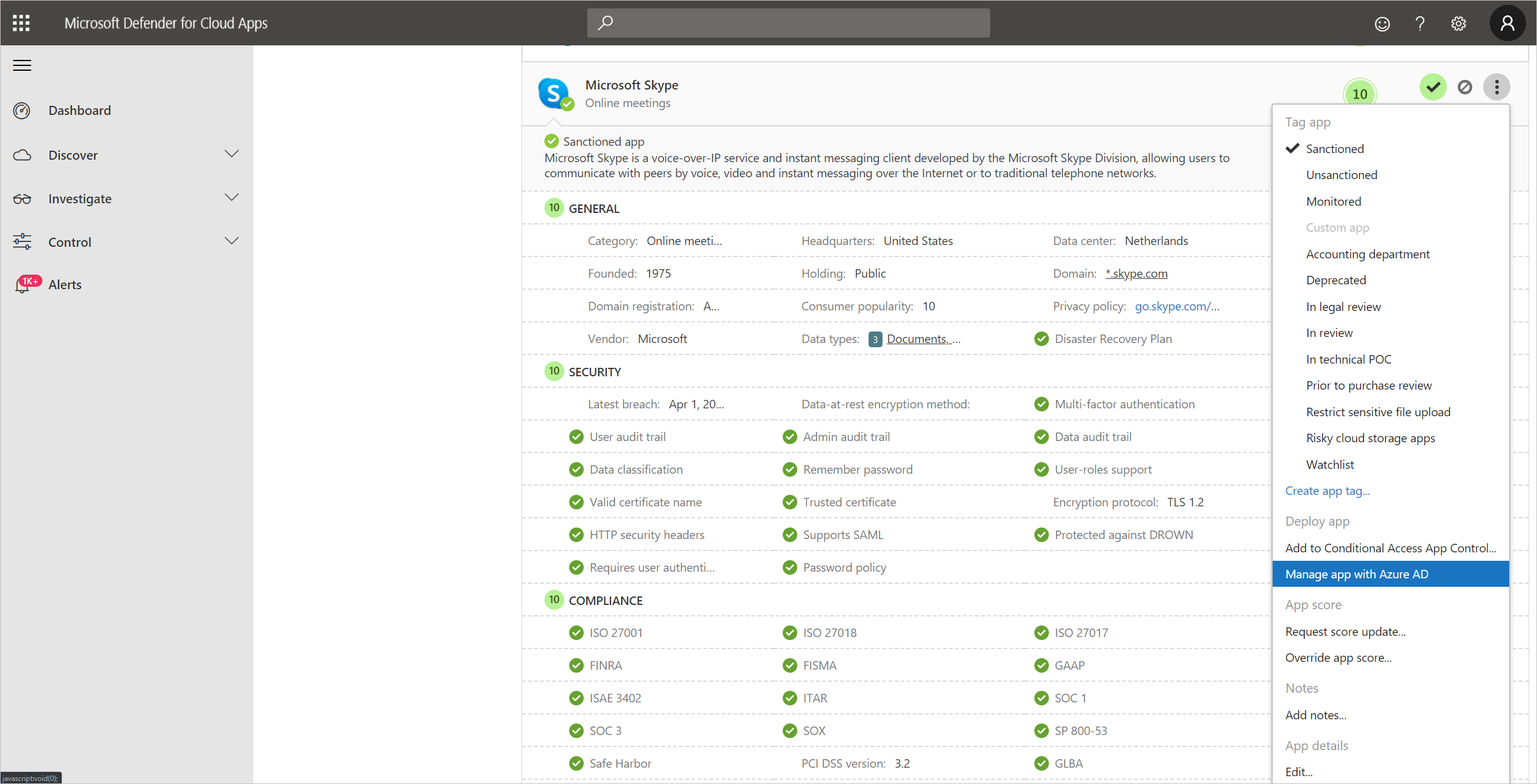
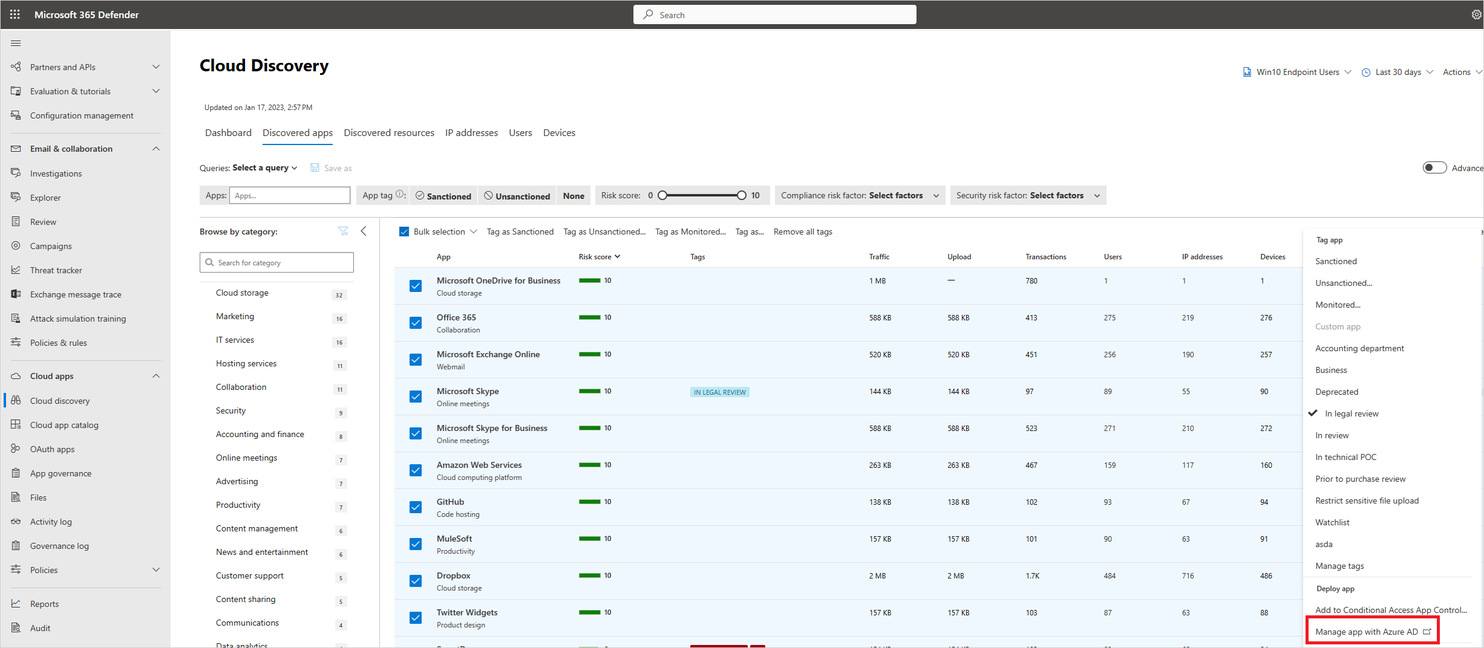
update jan 29

diff --git a/CloudAppSecurityDocs/tutorial-dlp.md b/CloudAppSecurityDocs/tutorial-dlp.md
@@ -34,16 +34,16 @@ Our approach to information protection can be split into the following phases th
     - **Use an app connector**: Our app connectors use the APIs supplied by app providers. They provide greater visibility into and control over the apps used in your organization. Scans are performed periodically (every 12 hours) and in real time (triggered each time a change is detected). For more information and instructions on how to add apps, see [Connecting apps](enable-instant-visibility-protection-and-governance-actions-for-your-apps.md).
     - **Use Conditional Access App Control**: Our Conditional Access App Control solution uses a reverse proxy architecture that is uniquely integrated with Azure Active Directory (AD) Conditional Access. Once configured in Azure AD, users will be routed to Defender for Cloud Apps where access and session policies are enforced to protect the data apps attempt to use. This connection method allows you to apply controls to [any app](proxy-deployment-any-app.md). For more information, see [Protect apps with Defender for Cloud Apps Conditional Access App Control](proxy-intro-aad.md).
 
-1. **Investigate**: After you connect an app to Defender for Cloud Apps using its API connector, Defender for Cloud Apps scans all the files it uses. You can then go to the file investigation page (**Investigate** > **Files**) to get an overview of the files shared by your cloud apps, their accessibility, and their status. For more information, see [Investigate files](file-filters.md).
+1. **Investigate**: After you connect an app to Defender for Cloud Apps using its API connector, Defender for Cloud Apps scans all the files it uses. In the Microsoft 365 Defender portal, under **Cloud Apps**, go to **Files** to get an overview of the files shared by your cloud apps, their accessibility, and their status. For more information, see [Investigate files](file-filters.md).
 
 ### Phase 2: Classify sensitive information
 
-1. **Define which information is sensitive**: Before looking for sensitive information in your files, you first need to define what counts as sensitive for your organization. As part of our [data classification service](dcs-inspection.md), we offer over 100 out-of-the-box sensitive information types, or you can [create your own](/microsoft-365/compliance/create-a-custom-sensitive-information-type) to suit to your company policy. **Defender for Cloud Apps is natively integrated with Microsoft Purview Information Protection** and the same sensitive types and labels are available throughout both services. So when you want to define sensitive information, head over to the Microsoft Purview Information Protection portal to create them, and once defined they will be available in Defender for Cloud Apps. You can also use advanced classifications types such as fingerprint or Exact Data Match (EDM).
+1. **Define which information is sensitive**: Before looking for sensitive information in your files, you first need to define what counts as sensitive for your organization. As part of our [data classification service](dcs-inspection.md), we offer over 100 out-of-the-box sensitive information types, or you can [create your own](/microsoft-365/compliance/create-a-custom-sensitive-information-type) to suit to your company policy. **Defender for Cloud Apps is natively integrated with Microsoft Purview Information Protection** and the same sensitive types and labels are available throughout both services. So when you want to define sensitive information, head over to the Microsoft Purview Information Protection portal to create them, and once defined they'll be available in Defender for Cloud Apps. You can also use advanced classifications types such as fingerprint or Exact Data Match (EDM).
 
     For those of you that have already done the hard work of identifying sensitive information and applying the appropriate sensitivity labels, you can use those labels in your policies without having to scan the contents again.
-1. **Enable Microsoft Purview Information Protection integration**
-    1. In Defender for Cloud Apps, under the settings cog, select the **Settings** page under the **System** heading.
-    1. Under **Microsoft Purview Information Protection**, select **Automatically scan new files for sensitivity labels from Microsoft Purview Information Protection**.
+1. **Enable Microsoft Information Protection integration**
+    1. In the Microsoft 365 Defender portal, select **Settings**. Then choose **Cloud Apps**.
+    1. Under **Information Protection**,  go to **Microsoft Information Protection**. Select **Automatically scan new files for Microsoft Information Protection sensitivity labels and content inspection warnings**.
 
     For more information, see [Microsoft Purview Information Protection integration](azip-integration.md).
 1. **Create policies to identify sensitive information in files**: Once you know the kinds of information you want to protect, it's time to create policies to detect them. Start by creating the following policies:
@@ -51,14 +51,15 @@ Our approach to information protection can be split into the following phases th
     **File policy**  
     Use this type of policy to scan the content of files stored in your API connected cloud apps in near real-time and data at rest. Files are scanned using one of our supported inspection methods including **Microsoft Purview Information Protection encrypted content** thanks to its **native integration** with Defender for Cloud Apps.
 
-    1. Go to **Control** > **Policies**, select **Create Policy**, and then select **File policy**.
+    1. In the Microsoft 365 Defender portal, under **Cloud Apps**, select **Policies** -> **Policy management**.
+    1. Select **Create Policy**, and then select **File policy**.
     1. Under **Inspection method**, choose and configure one of the following classification services:
 
         - **[Data Classification Services](dcs-inspection.md)**: Uses classification decisions you've made across Office 365, Microsoft Purview Information Protection, and Defender for Cloud Apps to provide a unified labeling experience. This is the preferred content inspection method as it provides a consistent and unified experience across Microsoft products.
         - **[Built-in DLP](content-inspection-built-in.md)**: Inspects files for sensitive information using our built-in DLP content inspection engine.
         - **[External DLP integration](icap-stunnel.md)**: For enterprises wishing to use their own third-party DLP solutions, Defender for Cloud Apps file policies can securely direct files for inspection to your external DLP solution via an ICAP server.
 
-    1. For highly sensitive files, select **Create an alert** and choose the alerts you require, so that you are informed when there are files with unprotected sensitive information in your organization.
+    1. For highly sensitive files, select **Create an alert for each matching file** and choose the alerts you require, so that you're informed when there are files with unprotected sensitive information in your organization.
     1. Select **Create**.
 
     **Session policy**  
@@ -68,21 +69,22 @@ Our approach to information protection can be split into the following phases th
     - **Protect files on download**: Require documents to be labeled and protected with Microsoft Purview Information Protection. This action ensures the document is protected and user access is restricted in a potentially risky session.
     - **Prevent the upload of unlabeled files**: Require a file to have the right label and protection before a sensitive file is uploaded, distributed, and used by others. With this action, you can ensure that unlabeled files with sensitive content are blocked from being uploaded until the user classifies the content.
 
-    1. Go to **Control** > **Policies**, select **Create Policy**, and then select **Session policy**.
+    1. In the Microsoft 365 Defender portal, under **Cloud Apps**, select **Policies** -> **Policy management**.
+    1. Select **Create Policy**, and then select **Session policy**.
     1. Under **Session control type**, choose one of the options with DLP.
     1. Under **Inspection method**, choose and configure one of the following classification services:
 
         - **[Data Classification Services](dcs-inspection.md)**: Uses classification decisions you've made across Office 365, Microsoft Purview Information Protection, and Defender for Cloud Apps to provide a unified labeling experience. This is the preferred content inspection method as it provides a consistent and unified experience across Microsoft products.
         - **[Built-in DLP](content-inspection-built-in.md)**: Inspects files for sensitive information using our built-in DLP content inspection engine.
 
-    1. For highly sensitive files, select **Create an alert** and choose the alerts you require, so that you are informed when there are files with unprotected sensitive information in your organization.
+    1. For highly sensitive files, select **Create an alert** and choose the alerts you require, so that you're informed when there are files with unprotected sensitive information in your organization.
     1. Select **Create**.
 
 You should create as many policies as required to detect sensitive data in compliance with your company policy.
 
 ### Phase 3: Protect your data
 
-So now you can detect files with sensitive information, but what you really want to do is protect that information from potential threats. Once you are aware of an incident, you can manually remediate the situation or you can use one of the automatic governance actions provided by Defender for Cloud Apps for securing your files. Actions include, but are not limited to, Microsoft Purview Information Protection native controls, API provided actions, and real-time monitoring. The kind of governance you can apply depends on the type of policy you are configuring, as follows:
+So now you can detect files with sensitive information, but what you really want to do is protect that information from potential threats. Once you're aware of an incident, you can manually remediate the situation or you can use one of the automatic governance actions provided by Defender for Cloud Apps for securing your files. Actions include, but aren't limited to, Microsoft Purview Information Protection native controls, API provided actions, and real-time monitoring. The kind of governance you can apply depends on the type of policy you're configuring, as follows:
 
 1. **[File policy governance](governance-actions.md#file-governance-actions) actions**: Uses the cloud app provider's API and our native integrations to secure files, including:
     - Trigger alerts and send email notifications about the incident
@@ -102,7 +104,7 @@ So now you can detect files with sensitive information, but what you really want
 
 Your policies are all in place to inspect and protect your data. Now, you'll want to [check your dashboard](daily-activities-to-protect-your-cloud-environment.md#check-the-dashboard) daily to see what new alerts have been triggered. It's a good place to keep an eye on the health of your cloud environment. Your dashboard helps you get a sense of what's happening and, if necessary, launch an [investigation](investigate.md).
 
-One of the most effective ways of monitoring sensitive file incidents, is to head over to the **Policies** page, and review the matches for policies you have configured. Additionally, if you configured alerts, you should also consider regularly monitoring file alerts by heading over to the **Alerts** page, specifying the category as **DLP**, and reviewing which file-related policies are being triggered. Reviewing these incidents can help you fine-tune your policies to focus on threats that are of interest to your organization.
+One of the most effective ways of monitoring sensitive file incidents, is to head over to the **Policies** page, and review the matches for policies you've configured. Additionally, if you configured alerts, you should also consider regularly monitoring file alerts by heading over to the **Alerts** page, specifying the category as **DLP**, and reviewing which file-related policies are being triggered. Reviewing these incidents can help you fine-tune your policies to focus on threats that are of interest to your organization.
 
 In conclusion, managing sensitive information in this way ensures that data saved to the cloud has maximal protection from malicious exfiltration and infiltration. Also, if a file is shared or lost, it can only be accessed by authorized users.
 

diff --git a/CloudAppSecurityDocs/tutorial-shadow-it.md b/CloudAppSecurityDocs/tutorial-shadow-it.md
@@ -8,7 +8,7 @@ ms.topic: tutorial
 
 [!INCLUDE [Banner for top of topics](includes/banner.md)]
 
-When IT admins are asked how many cloud apps they think their employees use, on average they say 30 or 40, when in reality, the average is over 1,000 separate apps being used by employees in your organization. Shadow IT helps you know and identify which apps are being used and what your risk level is. 80% of employees use non-sanctioned apps that no one has reviewed, and may not be compliant with your security and compliance policies. And because your employees are able to access your resources and apps from outside your corporate network, it's no longer enough to have rules and policies on your firewalls.
+When IT admins are asked how many cloud apps they think their employees use, on average they say 30 or 40, when in reality, the average is over 1,000 separate apps being used by employees in your organization. Shadow IT helps you know and identify which apps are being used and what your risk level is. 80% of employees use non-sanctioned apps that no one has reviewed, and may not be compliant with your security and compliance policies. And because your employees can access your resources and apps from outside your corporate network, it's no longer enough to have rules and policies on your firewalls.
 
 In this tutorial, you'll learn how to use Cloud Discovery to discover which apps are being used, explore the risk of these apps, configure policies to identify new risky apps that are being used, and to unsanction these apps in order to block them natively using your proxy or firewall appliance
 
@@ -42,7 +42,7 @@ Use this process to roll out Shadow IT Cloud Discovery in your organization.
 
 1. **Identify the risk levels of your apps**: Use the Defender for Cloud Apps catalog to dive deeper into the risks that are involved with each discovered app. The Defender for Cloud App Catalog includes over 31,000 apps that are assessed using over 90 risk factors. The risk factors start from general information about the app (where are the app's headquarters, who is the publisher), and through security measures and controls (support for encryption at rest, provides an audit log of user activity). For more information, see [Working with risk score](risk-score.md),
 
-    - In the [Defender for Cloud Apps portal](https://portal.cloudappsecurity.com/), under **Discover**, select **Discovered apps**. Filter the list of apps discovered in your organization by the risk factors you're concerned about. For example, you can use the Advanced filters to find all apps with a risk score lower than 8.
+    - In the [Microsoft 365 Defender portal](https://security.microsoft.com/), under **Cloud Apps**, select **Cloud Discovery**. Then go to the **Discovered apps** tab. Filter the list of apps discovered in your organization by the risk factors you're concerned about. For example, you can use **Advanced filters** to find all apps with a risk score lower than 8.
 
     - You can drill down into the app to understand more about its compliance by selecting the app name and then selecting the **Info** tab to see details about the app's security risk factors.
 
@@ -50,7 +50,7 @@ Use this process to roll out Shadow IT Cloud Discovery in your organization.
 
 1. **Evaluate compliance**: Check whether the apps are certified as compliant with your organization's standards, such as HIPAA, SOC2, GDPR.
 
-    - In the Defender for Cloud Apps portal, under **Discover**, select **Discovered apps**. Filter the list of apps discovered in your organization by the compliance risk factors you're concerned about. For example, use the suggested query to filter out non-compliant apps.
+    - In the [Microsoft 365 Defender portal](https://security.microsoft.com/), under **Cloud Apps**, select **Cloud Discovery**. Then go to the **Discovered apps** tab. Filter the list of apps discovered in your organization by the compliance risk factors you're concerned about. For example, use the suggested query to filter out non-compliant apps.
 
     - You can drill down into the app to understand more about its compliance by selecting the app name and then selecting the **Info** tab to see details about the app's compliance risk factors.
 
@@ -59,7 +59,7 @@ Use this process to roll out Shadow IT Cloud Discovery in your organization.
 
 1. **Analyze usage**: Now that you know whether or not you want the app to be used in your organization, you want to investigate how and who is using it. If it's only used in a limited way in your organization maybe it's ok, but maybe if the use is growing you want to be notified about it so you can decide if you want to block the app.
 
-    - In the Defender for Cloud Apps portal, under **Discover**, select **Discovered apps** and then drill down by selecting the specific app you want to investigate. The **Use** tab lets you know how many active users are using the app and how much traffic it's generating. This can already give you a good picture of what's happening with the app. Then, if you want to see who, specifically, is using the app, you can drill down further by selecting **Total active users**. This important step can give you pertinent information, for example, if you discover that all the users of a specific app are from the Marketing department, it's possible that there's a business need for this app, and if it's risky you should talk to them about an alternative before blocking it.
+    - In the [Microsoft 365 Defender portal](https://security.microsoft.com/), under **Cloud Apps**, select **Cloud Discovery**. Then go to the **Discovered apps** tab, and then drill down by selecting the specific app you want to investigate. The **Usage** tab lets you know how many active users are using the app and how much traffic it's generating. This can already give you a good picture of what's happening with the app. Then, if you want to see who, specifically, is using the app, you can drill down further by selecting **Total active users**. This important step can give you pertinent information, for example, if you discover that all the users of a specific app are from the Marketing department, it's possible that there's a business need for this app, and if it's risky you should talk to them about an alternative before blocking it.
 
     - Dive even deeper when investigating use of discovered apps. View subdomains and resources to learn about specific activities, data access, and resource usage in your cloud services. For more information, see [Deep dive into Discovered apps](discovered-apps.md#deep-dive-into-discovered-apps) and [Discover resources and custom apps](discovered-apps.md#discover-resources-and-custom-apps).
 
@@ -67,11 +67,11 @@ Use this process to roll out Shadow IT Cloud Discovery in your organization.
 
 ### Phase 3: Manage your apps
 
-- **Manage cloud apps**: Defender for Cloud Apps helps you with the process for managing app use in your organization. After you identified the different patterns and behaviors used in your organization, you can create new custom app tags in order to classify each app according to its business status or justification. These tags can be then used for specific monitoring purposes, for example, identify high traffic that is going to apps that are tagged as risky cloud storage apps. App tags can be managed under **Cloud Discovery settings** > **App tags**. These tags can then be used later for filtering in the Cloud Discovery pages and creating policies using them.
+- **Manage cloud apps**: Defender for Cloud Apps helps you with the process for managing app use in your organization. After you identified the different patterns and behaviors used in your organization, you can create new custom app tags in order to classify each app according to its business status or justification. These tags can be then used for specific monitoring purposes, for example, identify high traffic that is going to apps that are tagged as risky cloud storage apps. App tags can be managed under **Settings** > **Cloud Apps** > **Cloud Discovery** > **App tags**. These tags can then be used later for filtering in the Cloud Discovery pages and creating policies using them.
 
-- **Manage discovered apps using Azure Active Directory (Azure AD) Gallery**<a name ="gallery-apps"></a>: Defender for Cloud Apps also uses its native integration with Azure AD to enable you to manage your discovered apps in Azure AD Gallery. For apps that already appear in the Azure AD Gallery, you can apply single sign-on and manage the app with Azure AD. To do so, on the row where the relevant app appears, choose the three dots at the end of the row, and then choose **Manage app with Azure AD**.
+- **Manage discovered apps using Azure Active Directory (Azure AD) Gallery**: Defender for Cloud Apps also uses its native integration with Azure AD to enable you to manage your discovered apps in Azure AD Gallery. For apps that already appear in the Azure AD Gallery, you can apply single sign-on and manage the app with Azure AD. To do so, on the row where the relevant app appears, choose the three dots at the end of the row, and then choose **Manage app with Azure AD**.
 
-    ![manage app in azure ad gallery.](media/manage-app-in-azure-ad-gallery.png)
+    :::image type="content" source="media/manage-app-in-azure-ad-gallery.png" alt-text="Manage app in Azure AD gallery." lightbox="media/manage-app-in-azure-ad-gallery.png":::
 
 - **Continuous monitoring**: Now that you've thoroughly investigated the apps, you might want to set policies that monitor the apps and provide control where needed.
 

diff --git a/CloudAppSecurityDocs/get-started.md b/CloudAppSecurityDocs/get-started.md
@@ -28,11 +28,11 @@ This quickstart provides you with steps for getting up and running with Defender
 
 ## To access the portal
 
-To access the Defender for Cloud Apps portal, go to [https://portal.cloudappsecurity.com](https://portal.cloudappsecurity.com). You can also access the portal through the **[Microsoft 365 Defender portal](https://security.microsoft.com)**, as follows:
+ You can access Defender for Cloud Apps through the **[Microsoft 365 Defender portal](https://security.microsoft.com)**, as follows:
 
-1. In the [Microsoft 365 Defender Portal](https://security.microsoft.com/),  select **More resources**, and then select **Defender for Cloud Apps**.
+1. In the [Microsoft 365 Defender Portal](https://security.microsoft.com/),  under **Cloud Apps**, you'll find the various components of Defender for Cloud Apps:
 
-    ![Select Defender for Cloud Apps.](media/access-from-o365-s2.png)
+    :::image type="content" source="media/defender-for-cloud-apps-menu.png" alt-text="Defender for Cloud Apps menu." lightbox="media/defender-for-cloud-apps-menu.png":::
 
 ## Step 1. Set instant visibility, protection, and governance actions for your apps
 
@@ -40,8 +40,9 @@ How to page: [Set instant visibility, protection, and governance actions for you
 
 Required task: Connect apps
 
-1. From the settings cog, select **App connectors**.
-1. Select the plus sign (**+**) to add an app and select an app.
+1. In the Microsoft 365 Defender portal, select **Settings**. Then choose **Cloud Apps**.
+1. Under **Connected Apps**, select **App Connectors**.
+1. Select the **+Connect an app** to add an app and then select an app.
 1. Follow the configuration steps to connect the app.
 
 **Why connect an app?**
@@ -53,14 +54,15 @@ How to page: [Protect sensitive information with DLP policies](policies-informat
 
 Recommended task: Enable file monitoring and create file policies
 
-1. Go to **Settings**, and then under **Information Protection**, select **Files**.
+1. In the Microsoft 365 Defender portal, select **Settings**. Then choose **Cloud Apps**.
+1. Under **Information Protection**, select **Files**.
 1. Select **Enable file monitoring** and then select **Save**.
 1. If you use sensitivity labels from Microsoft Purview Information Protection, under **Information Protection**, select **Microsoft Information Protection**.
 1. Select the required settings and then select **Save**.
 1. In [Step 3](#step-3-control-cloud-apps-with-policies), create [File policies](data-protection-policies.md) to meet your organizational requirements.
 
 > [!TIP]
-> You can view files from your connected apps by browsing to **Investigate** > **Files**.
+> You can view files from your connected apps by browsing to **Cloud Apps** > **Files** in the Microsoft 365 Defender portal.
 
 **Migration recommendation**  
 We recommend using Defender for Cloud Apps sensitive information protection in parallel with your current Cloud Access Security Broker (CASB) solution. Start by [connecting the apps you want to protect](enable-instant-visibility-protection-and-governance-actions-for-your-apps.md) to Microsoft Defender for Cloud Apps. Since API connectors use out-of-band connectivity, no conflict will occur. Then progressively migrate your [policies](control-cloud-apps-with-policies.md) from your current CASB solution to Defender for Cloud Apps.
@@ -76,10 +78,10 @@ Required task: Create policies
 
 ### To create policies
 
-1. Go to **Control** > **Templates**.
-1. Select a policy template from the list, and then choose (+) **Create policy**.
+1. In the Microsoft 365 Defender portal, under **Cloud Apps**, choose **Policies** -> **Policy templates**.
+1. Choose a policy template from the list, and then select the **+** icon to create the policy.
 1. Customize the policy (select filters, actions, and other settings), and then choose **Create**.
-1. On the **Policies** tab, choose the policy to see the relevant matches (activities, files, alerts).
+1. Under **Cloud Apps**, choose **Policies** -> **Policy management**, to choose the policy and see the relevant matches (activities, files, alerts).
 
 > [!TIP]
 > To cover all your cloud environment security scenarios, create a policy for each **risk category**.
@@ -98,7 +100,7 @@ Required task: Enable Defender for Cloud Apps to view your cloud app use
 1. If you use [Zscaler, integrate](zscaler-integration.md) it with Defender for Cloud Apps.
 1. To achieve full coverage, create a continuous Cloud Discovery report
 
-    1. From the settings cog, select **Settings**.
+    1. In the Microsoft 365 Defender portal, select **Settings**. Then choose **Cloud Apps**.
     1. Under **Cloud Discovery**, choose **Automatic log upload**.
     1. On the **Data sources** tab, add your sources.
     1. On the **Log collectors** tab, configure the log collector.
@@ -108,7 +110,8 @@ We recommend using Defender for Cloud Apps discovery in parallel with your curre
 
 ### To create a snapshot Cloud Discovery report
 
-Go to **Discover** > **Create snapshot report** and follow the steps shown.
+1. In the Microsoft 365 Defender portal, under **Cloud Apps**, choose **Cloud discovery**.
+1. In the top right-hand corner, select **Actions** -> **Create Cloud Discovery snapshot report**.
 
 ### Why should you configure Cloud Discovery reports?
 
@@ -123,9 +126,10 @@ Recommended task: Deploy Conditional Access App Control for catalog apps
 
 1. Configure your IdP to work with Defender for Cloud Apps. If you have Azure AD, you can leverage inline controls such as *Monitor only* and *Block downloads* which will work for any catalog app out of the box.
 1. Onboard apps onto access and session controls.
-    1. From the settings cog, select **Conditional Access App Control**.
+    1. In the Microsoft 365 Defender portal, select **Settings**. Then choose **Cloud Apps**.
+    1. Under **Connected apps**, select *Conditional Access App Control apps**.
     1. Sign in to each app using a user scoped to the policy
-    1. Refresh the **Conditional Access App Control** page and to view the app.
+    1. Refresh the **Conditional Access App Control apps** page and to view the app.
 1. Verify the apps are configured to use access and session controls
 
 To configure session controls for custom line-of-business apps, non-featured SaaS apps, and on-premises apps, see [Deploy Conditional Access App Control for custom apps using Azure Active Directory](proxy-deployment-any-app.md).
@@ -141,19 +145,20 @@ Recommended task: Add your organization details
 
 ### To enter email settings
 
-1. From the settings cog, select **Mail settings**.
+1. In the Microsoft 365 Defender portal, select **Settings**. Then choose **Cloud Apps**.
+1. Under **System**, select **Mail settings**.
 1. Under **Email sender identity**, enter your email addresses and display name.
 1. Under **Email design**, upload your organization's email template.
 
 ### To set admin notifications
 
-1. In the navigation bar, choose your user name, and then go to **User settings**.
-1. Under **Notifications**, configure the methods you want to set for system notifications.
-1. Choose **Save**.
+1. In the Microsoft 365 Defender portal, select **Settings**. Then choose **Microsoft 365 Defender**.
+1. Select **Email notifications**.
+1. Configure the methods you want to set for system notifications.
 
 ### To customize the score metrics
 
-1. From the settings cog, select **Settings**.
+1. In the Microsoft 365 Defender portal, select **Settings**. Then choose **Cloud Apps**.
 1. Under **Cloud Discovery**, choose **Score metrics**.
 1. Configure the importance of various risk values.
 1. Choose **Save**.
@@ -173,16 +178,17 @@ Recommended task: Configure important settings
 
 ### To create IP address tags
 
-1. From the settings cog, select **IP address ranges**.
+1. In the Microsoft 365 Defender portal, select **Settings**. Then choose **Cloud Apps**.
+1. Under **System**, select **IP address ranges**.
 1. Select **+ Add IP address range**  to add an IP address range.
-1. Enter the IP range **details**, **location**, **tags**, and **category**.
+1. Enter the IP range **Name**, **IP address ranges**, **Category**, and **Tags**.
 1. Choose **Create**.
 
     Now you can use IP tags when you create policies, and when you filter and create continuous reports.
 
 ### To create continuous reports
 
-1. From the settings cog, select **Settings**.
+1. In the Microsoft 365 Defender portal, select **Settings**. Then choose **Cloud Apps**.
 1. Under **Cloud Discovery**, choose **Continuous reports**.
 1. Choose **Create report**.
 1. Follow the configuration steps.
@@ -192,8 +198,8 @@ Now you can view discovered data based on your own preferences, such as business
 
 ### To add domains
 
-1. From the settings cog, select **Settings**.
-1. Under **System**, choose  **Organization details**.
+1. In the Microsoft 365 Defender portal, select **Settings**. Then choose **Cloud Apps**.
+1. Under **System**, choose **Organization details**.
 1. Add your organization's internal domains.
 1. Choose **Save**.
 

diff --git a/CloudAppSecurityDocs/investigate-risky-oauth.md b/CloudAppSecurityDocs/investigate-risky-oauth.md
@@ -50,7 +50,7 @@ You can set policies to automatically send you notifications when an OAuth app m
 
 ### Detect risky apps by hunting
 
-1. In the portal, go to **Investigate** and then **OAuth apps**. Use the filters and queries to review what's happening in your environment:
+1. In the Microsoft 365 Defender portal, under **Cloud Apps**, go to **OAuth apps**. Use the filters and queries to review what's happening in your environment:
 
     - Set the filter to **Permission level high severity** and **Community use not common**. Using this filter, you can focus on apps that are potentially very risky, where users may have underestimated the risk.
     - Under **Permissions** select all the options that are particularly risky in a specific context. For example, you can select all the filters that provide permission to email access, such as **Full access to all mailboxes** and then review the list of apps to make sure that they all really need mail-related access. This can help you investigate within a specific context, and find apps that seem legitimate, but contain unnecessary permissions. These apps are more likely to be risky.
@@ -80,7 +80,7 @@ After you determine that an app is suspicious and you want to investigate it, we
     - Apps with a low number of downloads.
     - Apps with a low rating or score or bad comments.
     - Apps with a suspicious publisher or website.
-    - Apps whose last update is not recent. This might indicate an app that is no longer supported.
+    - Apps whose last update isn't recent. This might indicate an app that is no longer supported.
     - Apps that have irrelevant permissions. This might indicate that an app is risky.
 1. If the app is still suspicious, you can research the app name, publisher, and URL online.
 1. You can export the OAuth app audit for further analysis of the users who authorized an app. For more information, see [OAuth app auditing](manage-app-permissions.md#oauth-app-auditing).

diff --git a/CloudAppSecurityDocs/release-notes.md b/CloudAppSecurityDocs/release-notes.md
@@ -566,7 +566,7 @@ Released May 31, 2020
 We've enhanced your ability to granularly determine which users you want to monitor with the ability to make activities private. This new feature enables you to specify users based on group membership whose activities will be hidden by default. Only authorized admins have the option to choose to view these private activities, with each instance being audited in the governance log. For more information, see [Activity privacy](activity-privacy.md).
 
 - **New integration with Azure Active Directory (Azure AD) Gallery**  
-We've leveraged our native integration with Azure AD to give you the ability to navigate directly from an app in the Cloud App Catalog to its corresponding Azure AD Gallery app, and manage it in the gallery. For more information, see [Manage apps with Azure AD Gallery](tutorial-shadow-it.md#gallery-apps).
+We've leveraged our native integration with Azure AD to give you the ability to navigate directly from an app in the Cloud App Catalog to its corresponding Azure AD Gallery app, and manage it in the gallery. For more information, see [Manage apps with Azure AD Gallery](tutorial-shadow-it.md).
 
 - **New feedback option available in selected policies**  
 We're interested in receiving your feedback and learning how we can help. So now a new feedback dialog gives you the opportunity to help improve Cloud App Security, when creating, modifying, or deleting a file, anomaly detection, or session policy.
